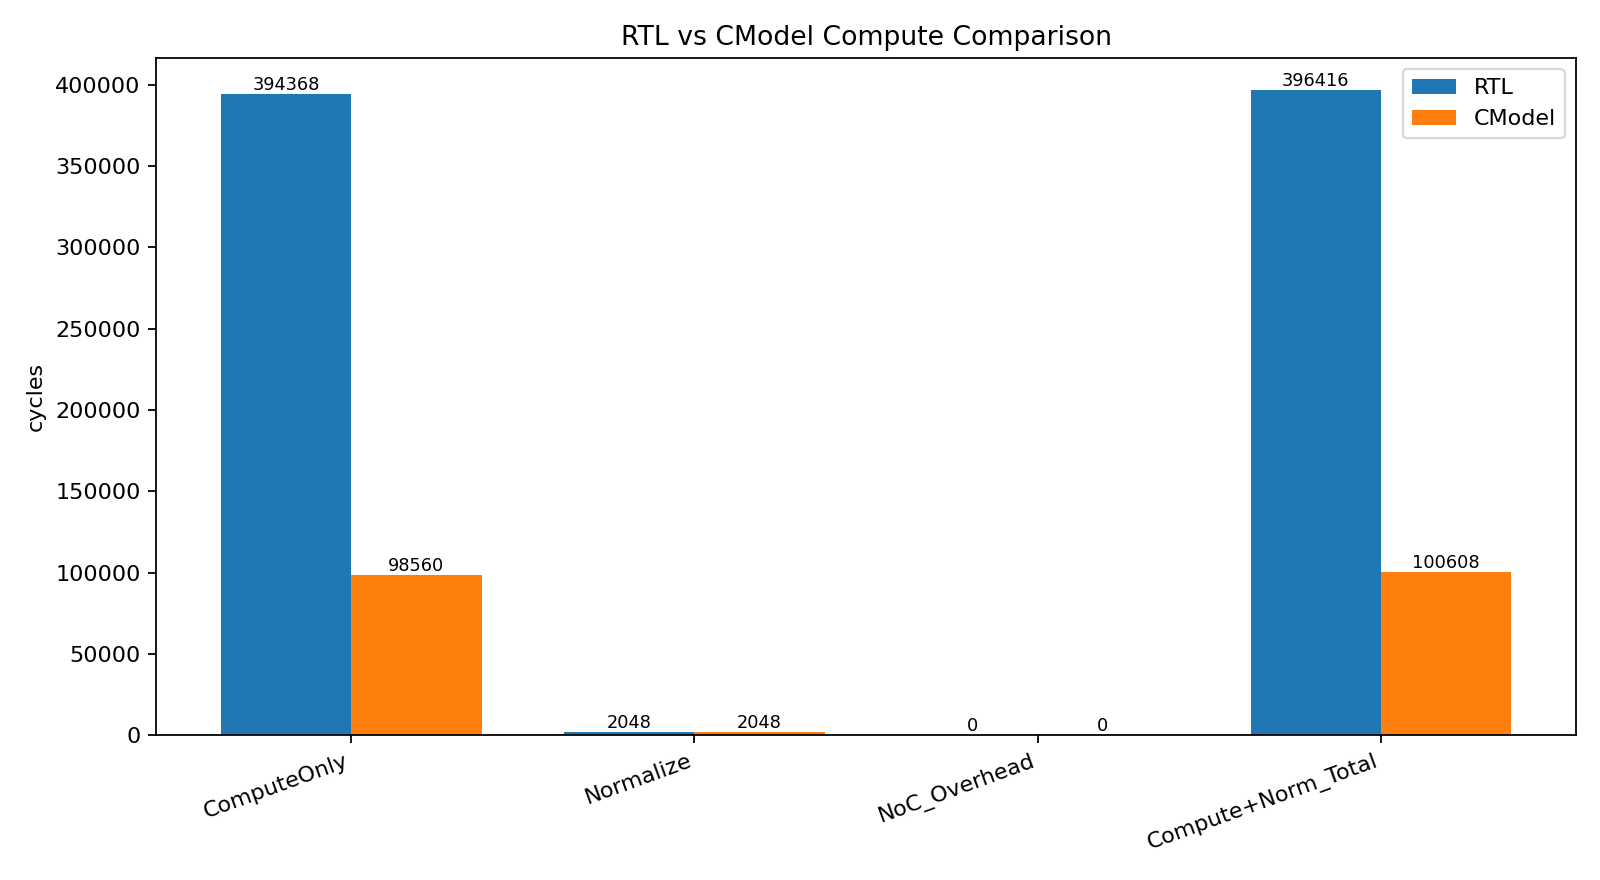
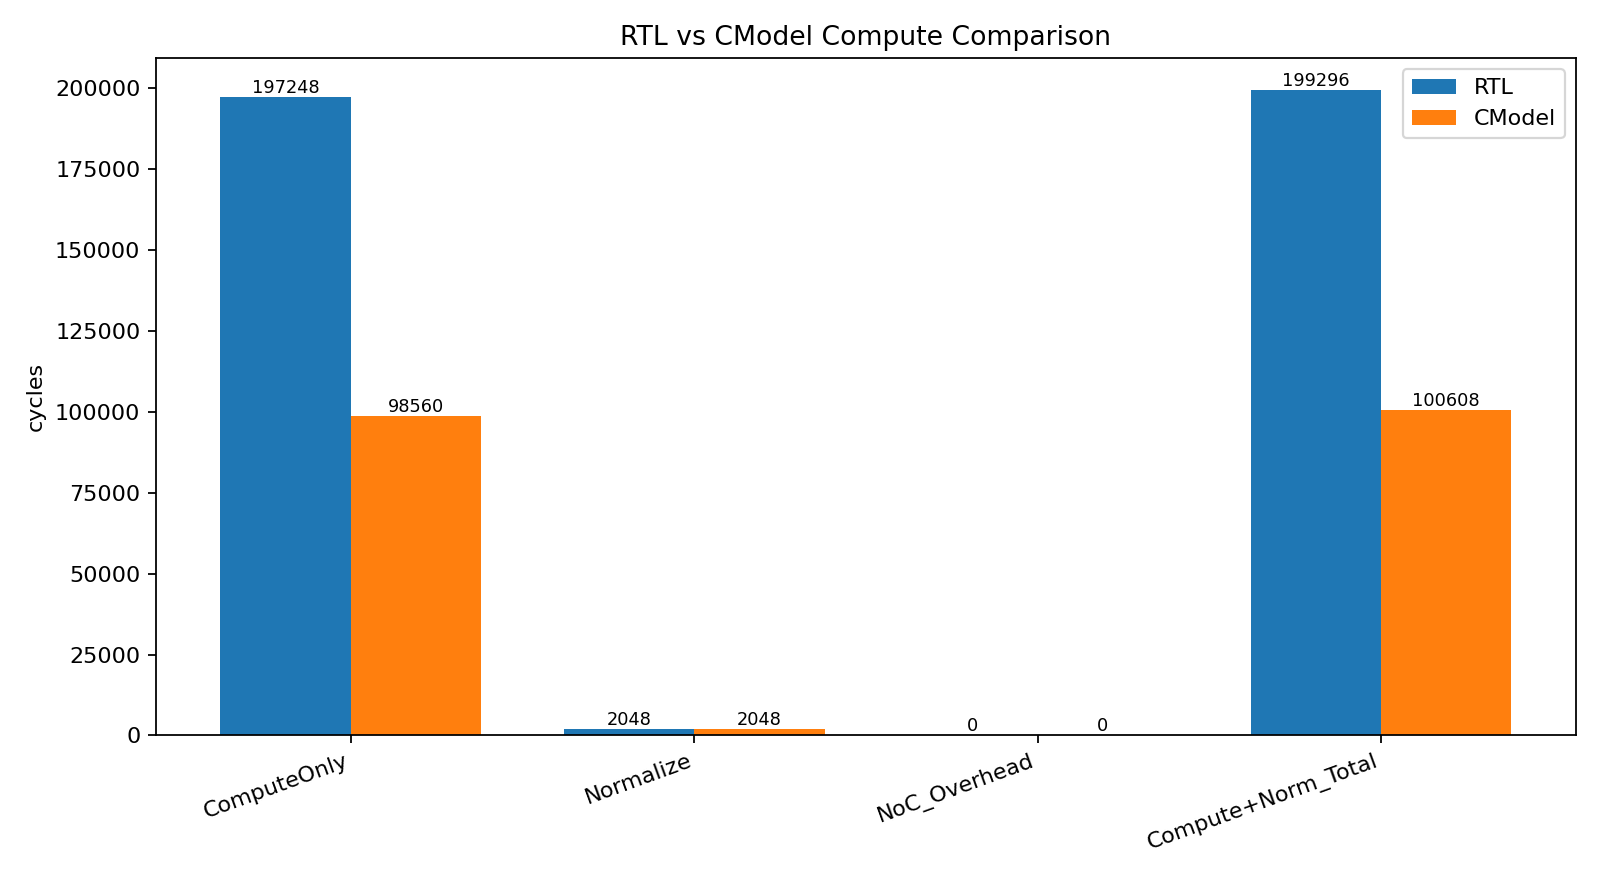
feat: row2方案优化latency

diff --git a/docs/20260304_row2_rtl_alignment_and_latency_report.md b/docs/20260304_row2_rtl_alignment_and_latency_report.md
@@ -1,0 +1,147 @@
+# 20260304 Row2 RTL对齐与延迟来源报告
+
+## 1. 本轮结论（先看结果）
+
+- 已完成 `row2` RTL并行实现（compute阶段每拍处理两条query row）。
+- 最新 Verilator C++ TB结果：**`total_cycles = 236,288`**，已满足赛题 `<300,000` cycles 目标。
+- 精度仍满足要求：`rtl_fp32_mae = 0.000971925`，`rtl_fp32_maxae = 0.00203197`。
+- 与 `cmodel fixed_flow_l32_norm8_row2` 对齐后，compute-only仍有差距：
+  - RTL `Compute+Norm = 199,296`
+  - CModel `Compute+Norm = 100,608`
+  - 差值 `+98,688` cycles（主要来自RTL控制/调度开销与阶段串行化）。
+
+---
+
+## 2. 当前RTL数据流（row2版本）
+
+当前 `fa_attention_core` 的主流程：
+
+1. `S_LOAD_Q`: 读入一个Q tile（`TQ=32` rows）。
+2. `S_INIT_CONTEXT`: 初始化每个row的 `(m, l, acc)` 在线softmax上下文。
+3. 对每个K/V tile循环：
+   - `S_LOAD_K` -> `S_LOAD_V`
+   - `S_COMPUTE`（内部FSM）
+4. `S_NORMALIZE`: 对每个输出元素做 `acc/l` 归一化。
+5. `S_WRITE_O`: 写回当前Q tile输出。
+6. `S_NEXT_Q`: 进入下一Q tile。
+
+### 2.1 Compute子FSM（row2并行）
+
+`C_DP_INIT -> C_DP_RUN -> C_SCORE_DONE -> C_SOFTMAX_PREP -> C_NEXT_KJ -> C_NEXT_QI`
+
+- `C_DP_RUN`：
+  - `DP_LANES=32`，`D=64`，每个(q,k)点积需要 `DP_CHUNKS=2` 周期。
+  - row2实现后，**同一组(kj, d-chunk)同时累计两条query row**：`dp_acc0/dp_acc1`。
+- `C_SCORE_DONE`：两条row同时进行 scale 与 causal mask。
+- `C_SOFTMAX_PREP`：两条row同时执行在线softmax更新：
+  - `m <- max(m, score)`
+  - `l <- l*exp(m_old-m_new) + exp(score-m_new)`
+  - `acc <- acc*exp(m_old-m_new) + exp(score-m_new)*V`
+
+本质上，row维度并行从 `1 -> 2`，直接把主要compute迭代的row扫描次数减半。
+
+---
+
+## 3. CModel延迟怎么计算（口径说明）
+
+来源：`cmodel/csrc/attention_experiment.cpp` 中 `simulate_compute_cycles()`。
+
+对某个架构模型（如 `fixed_flow_l32_norm8_row2`），compute-only延迟由下式给出：
+
+1. 点积相关：
+
+- `dp_cycles = dp_init_cycles + ceil(D / dot_lanes)`
+- `steady = overlap_dp_post ? max(dp_cycles, post_cycles) : (dp_cycles + post_cycles)`
+- `startup = overlap_dp_post ? (dp_cycles + post_cycles - 1) : (dp_cycles + post_cycles)`
+
+2. row并行分组：
+
+- `row_groups = ceil(S / rows_parallel)`
+- `per_row_cycles = startup + (S - 1) * steady`
+- `compute_cycles = row_groups * per_row_cycles`
+
+3. 归一化与NoC开销：
+
+- `norm_cycles = ceil(S * D / norm_vec)`
+- `noc_cycles = row_groups * (S * noc_dispatch_per_k + noc_row_sync)`
+
+4. 总compute-only：
+
+- `total_compute_only_cycles = compute_cycles + norm_cycles + noc_cycles`
+
+对于 `fixed_flow_l32_norm8_row2`：
+
+- `dot_lanes=32, rows_parallel=2, norm_vec=8, overlap_dp_post=true`
+- 结果：`compute=98,560`, `norm=2,048`, `total=100,608`。
+
+> 注：该模型是“架构级周期估算”（不含DMA握手细节、主FSM细粒度控制气泡、实现相关串行边界）。
+
+---
+
+## 4. RTL延迟怎么来的（口径说明）
+
+来源：`dv/verilator_cpp/fa_attention_core_tb.cpp` 实测周期统计，写入：
+
+- `docs/data/20260304_rtl_summary.csv`
+- `docs/data/20260304_rtl_latency_breakdown.csv`
+- `docs/data/20260304_rtl_compute_breakdown.csv`
+
+### 4.1 总周期与DMA拆解
+
+- `total_cycles = 236,288`
+- `DMA_RD_Q = 2,048`
+- `DMA_RD_K = 16,384`
+- `DMA_RD_V = 16,383`
+- `DMA_WR_O = 2,048`
+- `Compute+Normalize+Ctrl = 199,425`
+
+### 4.2 Compute细分（ms/cs状态采样）
+
+- `ms_compute_cycles = 197,248`
+  - `cs_dp_cycles = 98,304`
+  - `cs_score_cycles = 32,768`
+  - `cs_softmax_pv_cycles = 32,768`
+  - `cs_ctrl_cycles = 33,408`
+- `ms_normalize_cycles = 2,048`
+
+可见 row2 后 DP显著下降，但控制态与阶段切换仍占较大比例，形成与CModel理想值的主要差距。
+
+---
+
+## 5. RTL vs CModel（当前对齐状态）
+
+来源：`docs/data/20260304_rtl_cmodel_compute_compare.csv`（cmodel模型：`fixed_flow_l32_norm8_row2`）
+
+- `ComputeOnly`: RTL `197,248` vs CModel `98,560`（+`98,688`）
+- `Normalize`: RTL `2,048` vs CModel `2,048`（完全对齐）
+- `Compute+Norm_Total`: RTL `199,296` vs CModel `100,608`（+`98,688`）
+
+说明：
+
+1. **归一化向量化口径已对齐**（`NORM_LANES=8` -> `norm=2,048`一致）。
+2. 主要差距集中在compute主循环中的**控制/串行化开销**，而不是算法公式或norm资源设定。
+
+---
+
+## 6. 是否需要继续“先在cmodel优化一轮”？
+
+根据本轮结果，赛题硬目标（`<300k`）已达成，因此本轮按要求先完成阶段性收敛，不再强制进入“未达标时的cmodel先优化分支”。
+
+如果进入下一轮（追求更大余量/更高吞吐），建议优先在CModel验证以下两类再映射RTL：
+
+1. **降低控制开销口径**：把 `post/control` 从3拍进一步压缩，评估理论下限；
+2. **跨阶段重叠**：在模型里显式引入 `Load(K/V)` 与前一组 `compute` 的部分重叠，评估端到端而非compute-only最优点。
+
+---
+
+## 7. 本轮产物清单
+
+- RTL实现：`rtl/core/fa_attention_core.sv`（row2并行）
+- 周期结果：`docs/data/20260304_rtl_summary.csv`
+- 延迟拆解：`docs/data/20260304_rtl_latency_breakdown.csv`
+- compute细拆：`docs/data/20260304_rtl_compute_breakdown.csv`
+- RTL/CModel对比：`docs/data/20260304_rtl_cmodel_compute_compare.csv`
+- 图表：
+  - `docs/report/20260304_rtl_latency_breakdown.png`
+  - `docs/report/20260304_rtl_compute_breakdown.png`
+  - `docs/report/20260304_rtl_cmodel_compute_compare.png`
